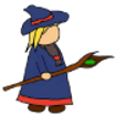
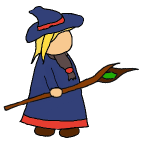
Sprite scales scaling(larger screen -> larger sprites, smaller screen -> smaller sprites) Updated background

diff --git a/main.py b/main.py
@@ -19,6 +19,14 @@ else:
     SCREEN_HEIGHT = 500
     SCREEN_WIDTH = 800
 
+def screen_resolution_int(num):
+    x = int((num/768) * SCREEN_HEIGHT)
+    return x
+
+def screen_resolution_float(num):
+    x = (num/768) * SCREEN_HEIGHT
+    return x
+
 class MenuView(arcade.View):
 
     def on_show(self):
@@ -58,10 +66,11 @@ class GameView(arcade.View):
         self.spider_spawn_timer = 5
 
 #scales
-        self.player_scale = (1/768) * SCREEN_HEIGHT
-        self.slime_scale = (0.8/768) * SCREEN_HEIGHT
-        self.spider_scale = (0.1/768) * SCREEN_HEIGHT
-        self.fireball_scale = (0.13/768) * SCREEN_HEIGHT
+        self.player_scale = screen_resolution_float(0.825)
+        self.slime_scale = screen_resolution_float(0.8)
+        self.spider_scale = screen_resolution_float(0.1)
+        self.fireball_scale = screen_resolution_float(0.13)
+        self.crosshair_scale = screen_resolution_float(0.75)
 
 #background
         self.background = arcade.load_texture(file_name="images/background.png")
@@ -81,7 +90,7 @@ class GameView(arcade.View):
 
 
 #player
-        self.player = arcade.AnimatedWalkingSprite()
+        self.player = arcade.AnimatedWalkingSprite(scale=self.player_scale)
 
         self.player.stand_right_textures = []
         self.player.stand_right_textures.append(arcade.load_texture("images/Mage_1.png",scale=self.player_scale))
@@ -105,35 +114,34 @@ class GameView(arcade.View):
 
         self.player.center_x = SCREEN_WIDTH//2
         self.player.center_y = SCREEN_HEIGHT//2
-        self.player.scale = 1
+        self.player.scale = self.player_scale
         self.player_list.append(self.player)
 
 #walls
         self.wall = arcade.Sprite("images/wall.png")
         self.wall.center_x = SCREEN_WIDTH//2
-        self.wall.center_y = 100
+        self.wall.center_y = screen_resolution_int(100)
         self.wall_down_list.append(self.wall)
 
         self.wall = arcade.Sprite("images/wall.png")
         self.wall.center_x = SCREEN_WIDTH//2
-        self.wall.center_y = SCREEN_HEIGHT-100
+        self.wall.center_y = SCREEN_HEIGHT-screen_resolution_int(100)
         self.wall_up_list.append(self.wall)
 
         self.wall = arcade.Sprite("images/wall_y.png")
-        self.wall.center_x = 100
+        self.wall.center_x = screen_resolution_int(100)
         self.wall.center_y = SCREEN_HEIGHT//2
         self.wall_left_list.append(self.wall)
 
         self.wall = arcade.Sprite("images/wall_y.png")
-        self.wall.center_x = SCREEN_WIDTH-100
+        self.wall.center_x = SCREEN_WIDTH-screen_resolution_int(100)
         self.wall.center_y = SCREEN_HEIGHT//2
         self.wall_right_list.append(self.wall)
 
 #crosshair
-        self.crosshair = arcade.Sprite("images/crosshair.png")
+        self.crosshair = arcade.Sprite("images/crosshair.png",scale=self.crosshair_scale)
         self.crosshair.center_x = SCREEN_WIDTH//2
         self.crosshair.center_y = SCREEN_HEIGHT//2
-        self.crosshair.scale = 0.75
         self.crosshair_list.append(self.crosshair)
 
 
@@ -142,33 +150,32 @@ class GameView(arcade.View):
         arcade.draw_texture_rectangle(SCREEN_WIDTH//2, SCREEN_HEIGHT//2,
                                       SCREEN_WIDTH, SCREEN_HEIGHT,
                                       self.background)
-        arcade.draw_text("{0:1}".format(int(self.stage_timer)), SCREEN_WIDTH/2, SCREEN_HEIGHT - 75, arcade.color.WHITE, 35, align="center", anchor_x="center",anchor_y="center")
-        arcade.draw_text("Stage: " + "{0:1}".format(int(self.stage)), SCREEN_WIDTH - 150, SCREEN_HEIGHT - 75, arcade.color.WHITE, 35, align="center", anchor_x="center",anchor_y="center")
-        arcade.draw_text("x " + str(self.player_life), color=arcade.color.WHITE, start_x = 120, start_y= SCREEN_HEIGHT - 75, font_size= 45)
+        arcade.draw_text("{0:1}".format(int(self.stage_timer)), SCREEN_WIDTH/2, SCREEN_HEIGHT - screen_resolution_int(75), arcade.color.WHITE, screen_resolution_int(35), align="center", anchor_x="center",anchor_y="center")
+        arcade.draw_text("Stage: " + "{0:1}".format(int(self.stage)), SCREEN_WIDTH - screen_resolution_int(150), SCREEN_HEIGHT - screen_resolution_int(75), arcade.color.WHITE, screen_resolution_int(35), align="center", anchor_x="center",anchor_y="center")
+        arcade.draw_text("x " + str(self.player_life), color=arcade.color.WHITE, start_x = screen_resolution_int(120), start_y= SCREEN_HEIGHT - screen_resolution_int(75), font_size= screen_resolution_int(45))
         #arcade.draw_text(str(self.animation_clock_2), color = arcade.color.WHITE, start_x = 120, start_y = SCREEN_HEIGHT - 150)
         self.slime_list.draw()
         self.spider_list.draw()
         self.player_list.draw()
         self.crosshair_list.draw()
         self.fireball_list.draw()
-        self.door_list.draw()
         self.health_list.draw()
         if self.loading_screen_on == 1:
             arcade.draw_rectangle_filled(0, 0, SCREEN_WIDTH*2, SCREEN_HEIGHT*2, color=arcade.color.BLACK)
-            arcade.draw_text("Stage " + "{0:1}".format(int(self.stage)), SCREEN_WIDTH//2, SCREEN_HEIGHT//2, arcade.color.WHITE, 60, align="center", anchor_x="center",anchor_y="center")
+            arcade.draw_text("Stage " + "{0:1}".format(int(self.stage)), SCREEN_WIDTH//2, SCREEN_HEIGHT//2, arcade.color.WHITE, screen_resolution_int(60), align="center", anchor_x="center",anchor_y="center")
 
 
 
     def on_key_press(self, symbol, modifiers:int):
         if self.shoot_cd == False:
             if symbol == arcade.key.W:
-                self.player.change_y = 5
+                self.player.change_y = screen_resolution_int(5)
             if symbol == arcade.key.S:
-                self.player.change_y = -5
+                self.player.change_y = -screen_resolution_int(5)
             if symbol == arcade.key.D:
-                self.player.change_x = 5
+                self.player.change_x = screen_resolution_int(5)
             if symbol == arcade.key.A:
-                self.player.change_x = -5
+                self.player.change_x = -screen_resolution_int(5)
         if symbol == arcade.key.ESCAPE:
             # pass self, the current view, to preserve this view's state
             pause = PauseView(self)
@@ -227,35 +234,36 @@ class GameView(arcade.View):
 
     def player_health(self):
         if self.onetime_health == True:
-            health = arcade.Sprite(filename="images/player_health.png", scale=0.15, center_x= 60, center_y= SCREEN_HEIGHT - 50)
+            health = arcade.Sprite(filename="images/player_health.png", scale=screen_resolution_float(0.15), center_x= screen_resolution_int(60), center_y= SCREEN_HEIGHT - screen_resolution_int(50))
             self.health_list.append(health)
             self.onetime_health = False
 
     def door(self):
         door = arcade.Sprite(filename="images/light.png")
-        door.center_x = SCREEN_WIDTH-100
+        door.center_x = SCREEN_WIDTH-screen_resolution_int(100)
         door.center_y = SCREEN_HEIGHT//2
         self.door_list.append(door)
+        self.background = arcade.load_texture(file_name="images/background_f.png")
 
 
     def slime_enemy(self):
         slime = arcade.Sprite(filename="images/slime_1.png", scale=self.slime_scale)
 
-        slime.center_y = random.randrange(200, SCREEN_HEIGHT-200)
-        slime.center_x = random.randrange(200, SCREEN_WIDTH-100)
+        slime.center_y = random.randrange(screen_resolution_int(200), SCREEN_HEIGHT-screen_resolution_int(200))
+        slime.center_x = random.randrange(screen_resolution_int(200), SCREEN_WIDTH-screen_resolution_int(100))
         slime_coords_spawn_x = False
         slime_coords_spawn_y = False
 
         while slime_coords_spawn_x == False:
-            if slime.center_x < self.player.center_x + 100 and slime.center_x > self.player.center_x - 100:
-                slime.center_x = random.randrange(200, SCREEN_WIDTH)
+            if slime.center_x < self.player.center_x + screen_resolution_int(100) and slime.center_x > self.player.center_x - screen_resolution_int(100):
+                slime.center_x = random.randrange(screen_resolution_int(200), SCREEN_WIDTH)
             else:
                 slime_coords_spawn_x = True
 
 
         while slime_coords_spawn_y == False:
-            if slime.center_y < self.player.center_y + 100 and slime.center_y > self.player.center_y - 100:
-                slime.center_y = random.randrange(200, SCREEN_HEIGHT)
+            if slime.center_y < self.player.center_y + screen_resolution_int(100) and slime.center_y > self.player.center_y - screen_resolution_int(100):
+                slime.center_y = random.randrange(screen_resolution_int(100), SCREEN_HEIGHT)
             else:
                 slime_coords_spawn_y = True
 
@@ -266,21 +274,21 @@ class GameView(arcade.View):
 
         spider = arcade.Sprite(filename="images/spider_1.png",scale=self.spider_scale) #filename
 
-        spider.center_y = random.randrange(200, SCREEN_HEIGHT-200)
-        spider.center_x = random.randrange(200, SCREEN_WIDTH-100)
+        spider.center_y = random.randrange(screen_resolution_int(200), SCREEN_HEIGHT-screen_resolution_int(200))
+        spider.center_x = random.randrange(screen_resolution_int(200), SCREEN_WIDTH-screen_resolution_int(100))
         spider_coords_spawn_x = False
         spider_coords_spawn_y = False
 
         while spider_coords_spawn_x == False:
-            if spider.center_x < self.player.center_x + 100 and spider.center_x > self.player.center_x - 100:
-                spider.center_x = random.randrange(200, SCREEN_WIDTH)
+            if spider.center_x < self.player.center_x + screen_resolution_int(100) and spider.center_x > self.player.center_x - screen_resolution_int(100):
+                spider.center_x = random.randrange(screen_resolution_int(200), SCREEN_WIDTH)
             else:
                 spider_coords_spawn_x = True
 
 
         while spider_coords_spawn_y == False:
-            if spider.center_y < self.player.center_y + 100 and spider.center_y > self.player.center_y - 100:
-                spider.center_y = random.randrange(200, SCREEN_HEIGHT)
+            if spider.center_y < self.player.center_y + screen_resolution_int(100) and spider.center_y > self.player.center_y - screen_resolution_int(100):
+                spider.center_y = random.randrange(screen_resolution_int(200), SCREEN_HEIGHT)
             else:
                 spider_coords_spawn_y = True
 
@@ -471,7 +479,7 @@ class GameView(arcade.View):
         door_hit_with_player = arcade.check_for_collision_with_list(self.player, self.door_list)
         for door in door_hit_with_player:
             self.stage += 1
-            self.player.center_x = 200
+            self.player.center_x = screen_resolution_int(200)
             self.player.center_y = SCREEN_HEIGHT//2
             door.kill()
             self.stage_timer = 13
@@ -484,6 +492,7 @@ class GameView(arcade.View):
         if self.loading_screen_timer > 0.8 and self.loading_screen_timer < 0.9:
             arcade.pause(2)
             self.loading_screen_on = 0
+            self.background = arcade.load_texture(file_name="images/background.png")
 
 #game_over
         if self.player_life < 1:
@@ -503,7 +512,7 @@ class GameView(arcade.View):
                 slime.kill()
 
         for slime in self.slime_list:
-            if slime.bottom > SCREEN_HEIGHT - 150 or slime.top < 150 or slime.right < 150 or slime.left > SCREEN_WIDTH - 150:
+            if slime.bottom > SCREEN_HEIGHT - screen_resolution_int(150) or slime.top < screen_resolution_int(150) or slime.right < screen_resolution_int(150) or slime.left > SCREEN_WIDTH - screen_resolution_int(150):
                 slime.kill()
 
 
@@ -519,31 +528,31 @@ class GameView(arcade.View):
                 spider.kill()
 
         for spider in self.spider_list:
-            if spider.bottom > SCREEN_HEIGHT - 150 or spider.top < 150 or spider.right < 150 or spider.left > SCREEN_WIDTH - 150:
+            if spider.bottom > SCREEN_HEIGHT - screen_resolution_int(150) or spider.top < screen_resolution_int(150) or spider.right < screen_resolution_int(150) or spider.left > SCREEN_WIDTH - screen_resolution_int(150):
                 spider.kill()
 
 
 #wall_hitbox
         wall_down_hit_list = arcade.check_for_collision_with_list(self.player, self.wall_down_list)
         for wall in wall_down_hit_list:
-            self.player.center_y += 5
+            self.player.center_y += screen_resolution_int(5)
 
         wall_up_hit_list = arcade.check_for_collision_with_list(self.player, self.wall_up_list)
         for wall in wall_up_hit_list:
-            self.player.center_y -= 5
+            self.player.center_y -= screen_resolution_int(5)
 
         wall_left_hit_list = arcade.check_for_collision_with_list(self.player, self.wall_left_list)
         for wall in wall_left_hit_list:
-            self.player.center_x += 5
+            self.player.center_x += screen_resolution_int(5)
 
         wall_right_hit_list = arcade.check_for_collision_with_list(self.player, self.wall_right_list)
         for wall in wall_right_hit_list:
-            self.player.center_x -= 5
+            self.player.center_x -= screen_resolution_int(5)
 
 
 #fireball_hitbox
         for fireball in self.fireball_list:
-            if fireball.bottom > SCREEN_HEIGHT - 150 or fireball.top < 150 or fireball.right < 150 or fireball.left > SCREEN_WIDTH - 150:
+            if fireball.bottom > SCREEN_HEIGHT - screen_resolution_int(150) or fireball.top < screen_resolution_int(150) or fireball.right < screen_resolution_int(150) or fireball.left > SCREEN_WIDTH - screen_resolution_int(150):
                 fireball.kill()
 
 
@@ -554,7 +563,7 @@ class PauseView(arcade.View):
 
 
     def on_show(self):
-        arcade.draw_text("PAUSED", SCREEN_WIDTH/2, SCREEN_HEIGHT/2+50,
+        arcade.draw_text("PAUSED", SCREEN_WIDTH/2, SCREEN_HEIGHT/2+screen_resolution_int(50),
                          arcade.color.BLACK, font_size=50, anchor_x="center")
 
 
@@ -563,13 +572,13 @@ class PauseView(arcade.View):
                          SCREEN_WIDTH/2,
                          SCREEN_HEIGHT/2,
                          arcade.color.BLACK,
-                         font_size=20,
+                         font_size=screen_resolution_int(20),
                          anchor_x="center")
         arcade.draw_text("Press Enter to reset",
                          SCREEN_WIDTH/2,
-                         SCREEN_HEIGHT/2-30,
+                         SCREEN_HEIGHT/2-screen_resolution_int(30),
                          arcade.color.BLACK,
-                         font_size=20,
+                         font_size=screen_resolution_int(20),
                          anchor_x="center")
 
 
@@ -585,7 +594,7 @@ def main():
     if os.name == "posix":
         window = arcade.Window(SCREEN_WIDTH, SCREEN_HEIGHT, "Instruction and Game Over Views Example", fullscreen=True, antialiasing=False)
     else:
-        window = arcade.Window(SCREEN_WIDTH, SCREEN_HEIGHT, "Instruction and Game Over Views Example", fullscreen=True)
+        window = arcade.Window(SCREEN_WIDTH, SCREEN_HEIGHT, "Instruction and Game Over Views Example",fullscreen=True)
     menu = MenuView()
     window.show_view(menu)
     arcade.run()
